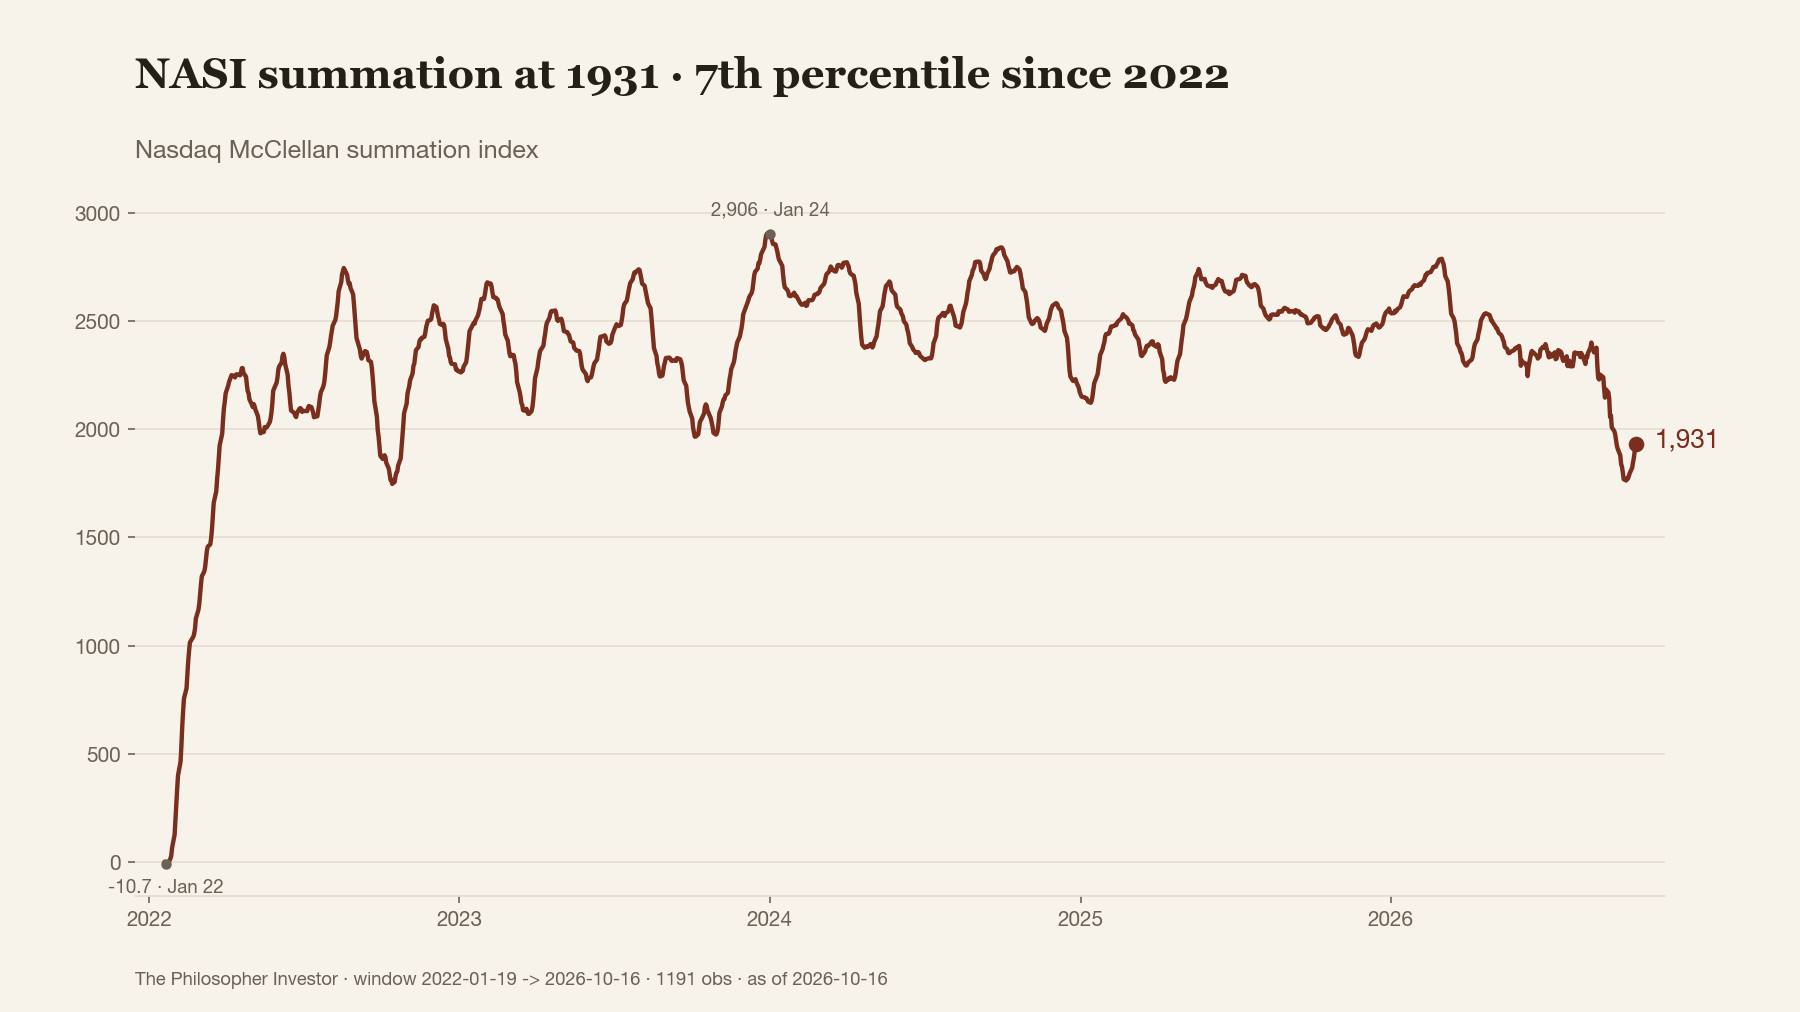
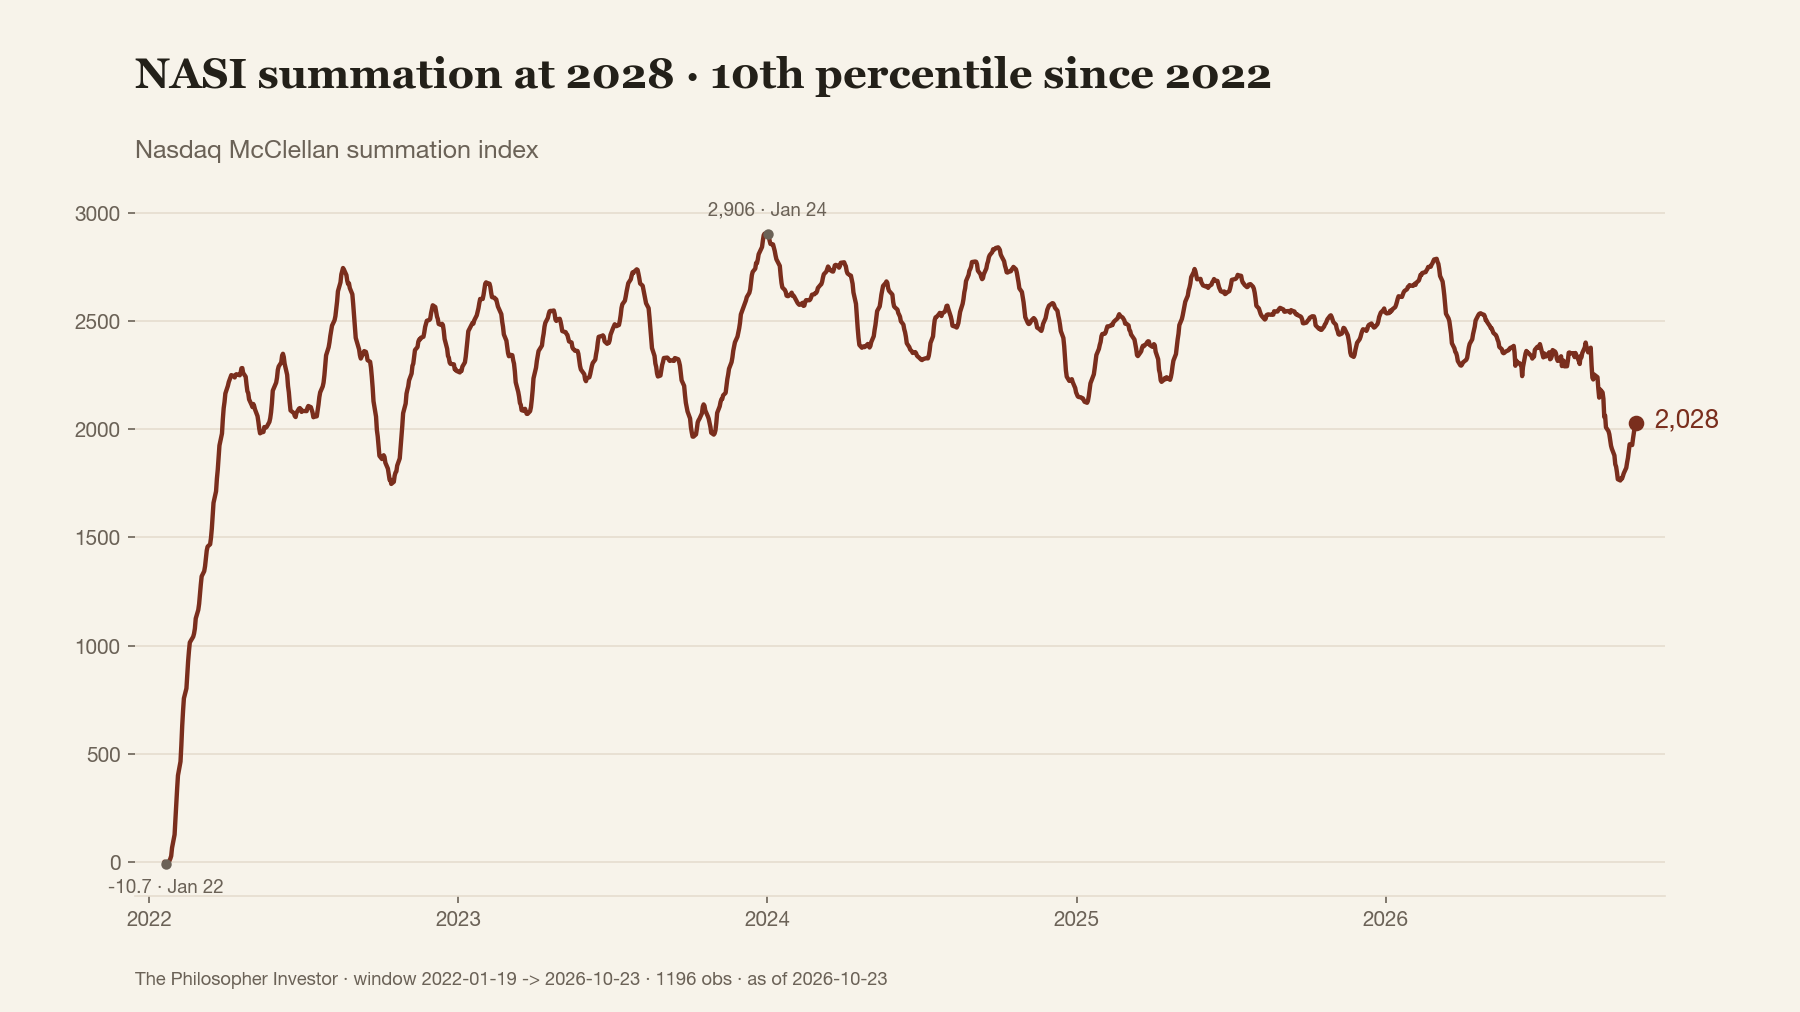
cotw: candidates 2026-10-23

diff --git a/cotw/index.html b/cotw/index.html
@@ -21,4 +21,4 @@ b{font-weight:600}
 @media (prefers-color-scheme:dark){
   body{background:#f9f5ee;color:#2b2622}
 }
-</style></head><body><div class="wrap"><h1>Charts of the Week</h1><p class="sub">8 candidates · data through 2026-10-19</p><div class="reco"><h2>My pick: 1 + 2 + 3 + 6 + 8</h2><p><b>1</b> · Shiller CAPE à <b>40,5</b>, <b>98e percentile</b> depuis 1871, le décor du numéro : le prix payé reste proche des records de 1999 (<b>44,2</b>), pendant que le SPY est à <b>-2,0%</b> de son plus haut du 6 octobre. Contexte de valorisation, aucun timing.</p><p><b>3</b> · Bullish percent du S&amp;P 500 à <b>49</b>, <b>13e percentile</b> depuis 2023 : la moitié des titres seulement tiennent un signal haussier. Loin du creux d&#x27;avril 2025 (<b>23,5</b>) et du sommet d&#x27;octobre 2024 (<b>84</b>). Descriptif.</p><p><b>6</b> · Seulement <b>10,6%</b> du S&amp;P 500 affiche un momentum 20 jours au-dessus de 5%, <b>20e percentile</b> depuis 2023. L&#x27;indice tient à <b>2%</b> du record avec très peu de porteurs. Milieu de distribution, donc description, pas de claim.</p><p><b>2</b> · NASI à <b>1931</b>, <b>7e percentile</b> depuis 2022 : le Nasdaq a une mécanique interne différente du S&amp;P, et elle s&#x27;est vidée plus vite. Famille breadth, zone basse mais pas l&#x27;extrême de capitulation.</p><p><b>8</b> · Crypto Fear &amp; Greed à <b>59</b>, <b>69e percentile</b> depuis 2018 : l&#x27;appétit pour le risque reste intact là où il s&#x27;exprime le plus librement. Série non testée, lecture descriptive seulement.</p><p>Dropped: 4 5 7</p></div><div class="chart" id="c1"><h3>1 <span class="star">★</span></h3><p class="meta">1871-02-01 -&gt; 2026-10-16 · 1,890 obs · source: Robert Shiller</p><img src="c1.png" alt="Shiller CAPE at 40.5 · 98th percentile since 1871" loading="lazy"></div><div class="chart" id="c2"><h3>2 <span class="star">★</span></h3><p class="meta">2022-01-19 -&gt; 2026-10-16 · 1,191 obs · source: The Philosopher Investor</p><img src="c2.png" alt="NASI summation at 1931 · 7th percentile since 2022" loading="lazy"></div><div class="chart" id="c3"><h3>3 <span class="star">★</span></h3><p class="meta">2023-05-01 -&gt; 2026-10-16 · 870 obs · source: The Philosopher Investor</p><img src="c3.png" alt="S&amp;P 500 bullish percent at 49 · 13th percentile since 2023" loading="lazy"></div><div class="chart" id="c4"><h3>4</h3><p class="meta">2025-02-14 -&gt; 2026-10-16 · 413 obs · source: The Philosopher Investor</p><img src="c4.png" alt="Sector jaws momentum at 9.8 · 14th percentile since early 2025" loading="lazy"></div><div class="chart" id="c5"><h3>5</h3><p class="meta">2022-01-20 -&gt; 2026-10-16 · 1,189 obs · source: The Philosopher Investor</p><img src="c5.png" alt="10.9% of stocks are RSI-overbought · 82nd percentile since 2022" loading="lazy"></div><div class="chart" id="c6"><h3>6 <span class="star">★</span></h3><p class="meta">2023-05-03 -&gt; 2026-10-16 · 868 obs · source: The Philosopher Investor</p><img src="c6.png" alt="10.6% of S&amp;P 500 has 20d momentum above 5% · 20th percentile since 2023" loading="lazy"></div><div class="chart" id="c7"><h3>7</h3><p class="meta">1987-07-24 -&gt; 2026-10-15 · 2,045 obs · source: AAII</p><img src="c7.png" alt="AAII bull-bear spread at -2.9 · 30th percentile since 1987" loading="lazy"></div><div class="chart" id="c8"><h3>8 <span class="star">★</span></h3><p class="meta">2018-02-01 -&gt; 2026-10-19 · 3,179 obs · source: alternative.me</p><img src="c8.png" alt="Crypto Fear &amp; Greed at 59 · 69th percentile since 2018" loading="lazy"></div></div></body></html>
+</style></head><body><div class="wrap"><h1>Charts of the Week</h1><p class="sub">8 candidates · data through 2026-10-23</p><div class="reco"><h2>My pick: 1 + 2 + 3 + 4 + 7</h2><p><b>2</b> · NASI à <b>2028</b>, <b>10e centile</b> depuis 2022 alors que SPY clôture à <b>759,97</b>, soit <b>2,45 %</b> sous son plus haut du 6 octobre. Descriptif.</p><p><b>3</b> · Bullish percent du S&amp;P 500 à <b>52</b>, <b>17e centile</b> depuis 2023. Un titre sur deux tient encore un signal haussier point &amp; figure. Statut non testé, descriptif seulement.</p><p><b>7</b> · <b>19,6 %</b> du S&amp;P 500 affiche un momentum 20 jours au-dessus de <b>5 %</b>, <b>42e centile</b> depuis 2023, très loin des <b>65,9 %</b> de décembre 2023. Niveau de milieu de range, lecture descriptive.</p><p><b>1</b> · CAPE de Shiller à <b>40,4</b>, <b>98e centile</b> sur <b>1 891</b> observations depuis 1871, sous le record de <b>44,2</b> de décembre 1999. Contexte du prix payé, aucun timing.</p><p><b>4</b> · AAII bull-bear à <b>-8,9</b>, <b>21e centile</b> depuis 1987. Les particuliers interrogés penchent déjà négatif avec l&#x27;indice près de son plus haut. Série DEFERRED, zéro claim.</p><p>Dropped: 5 6 8</p></div><div class="chart" id="c1"><h3>1 <span class="star">★</span></h3><p class="meta">1871-02-01 -&gt; 2026-10-23 · 1,891 obs · source: Robert Shiller</p><img src="c1.png" alt="Shiller CAPE at 40.4 · 98th percentile since 1871" loading="lazy"></div><div class="chart" id="c2"><h3>2 <span class="star">★</span></h3><p class="meta">2022-01-19 -&gt; 2026-10-23 · 1,196 obs · source: The Philosopher Investor</p><img src="c2.png" alt="NASI summation at 2028 · 10th percentile since 2022" loading="lazy"></div><div class="chart" id="c3"><h3>3 <span class="star">★</span></h3><p class="meta">2023-05-01 -&gt; 2026-10-23 · 875 obs · source: The Philosopher Investor</p><img src="c3.png" alt="S&amp;P 500 bullish percent at 52 · 17th percentile since 2023" loading="lazy"></div><div class="chart" id="c4"><h3>4 <span class="star">★</span></h3><p class="meta">1987-07-24 -&gt; 2026-10-22 · 2,046 obs · source: AAII</p><img src="c4.png" alt="AAII bull-bear spread at -8.9 · 21st percentile since 1987" loading="lazy"></div><div class="chart" id="c5"><h3>5</h3><p class="meta">2022-01-20 -&gt; 2026-10-23 · 1,194 obs · source: The Philosopher Investor</p><img src="c5.png" alt="9.6% of stocks are RSI-overbought · 75th percentile since 2022" loading="lazy"></div><div class="chart" id="c6"><h3>6</h3><p class="meta">2014-07-01 -&gt; 2026-10-23 · 3,103 obs · source: The Philosopher Investor</p><img src="c6.png" alt="53% of intermarket pairs are diverging · 41st percentile since 2014" loading="lazy"></div><div class="chart" id="c7"><h3>7 <span class="star">★</span></h3><p class="meta">2023-05-03 -&gt; 2026-10-23 · 873 obs · source: The Philosopher Investor</p><img src="c7.png" alt="19.6% of S&amp;P 500 has 20d momentum above 5% · 42nd percentile since 2023" loading="lazy"></div><div class="chart" id="c8"><h3>8</h3><p class="meta">2017-05-05 -&gt; 2026-10-23 · 2,381 obs · source: OCC</p><img src="c8.png" alt="OCC equity put/call at 0.81 · 57th percentile since 2017" loading="lazy"></div></div></body></html>
